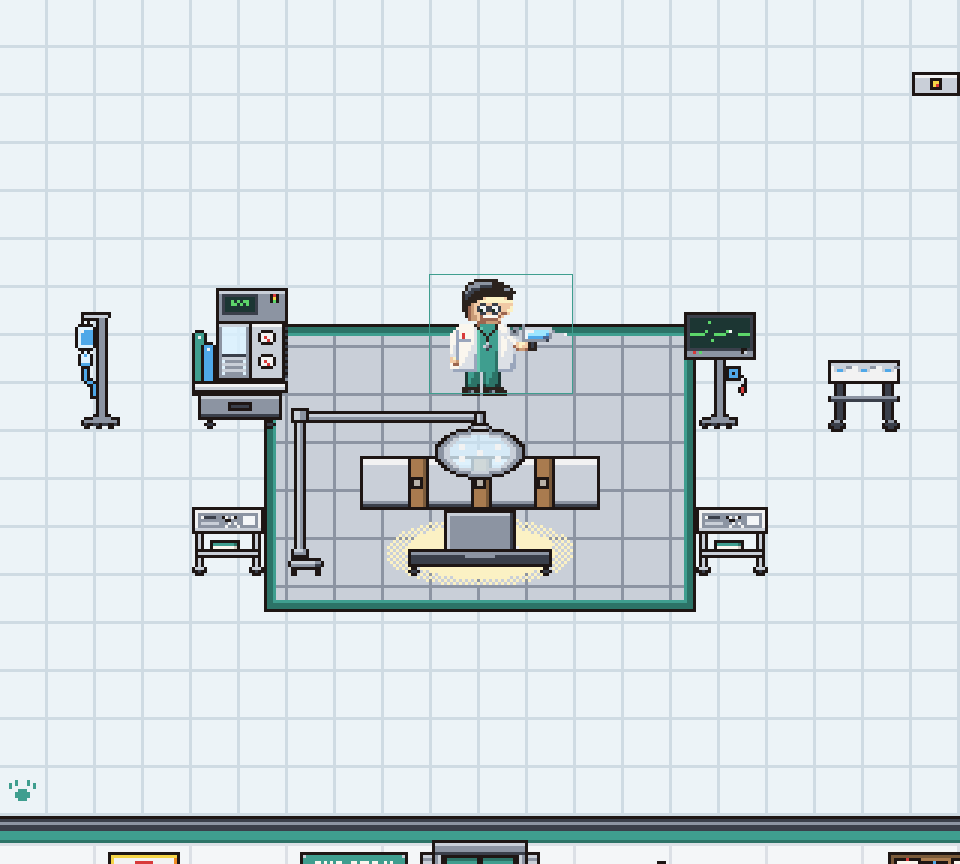
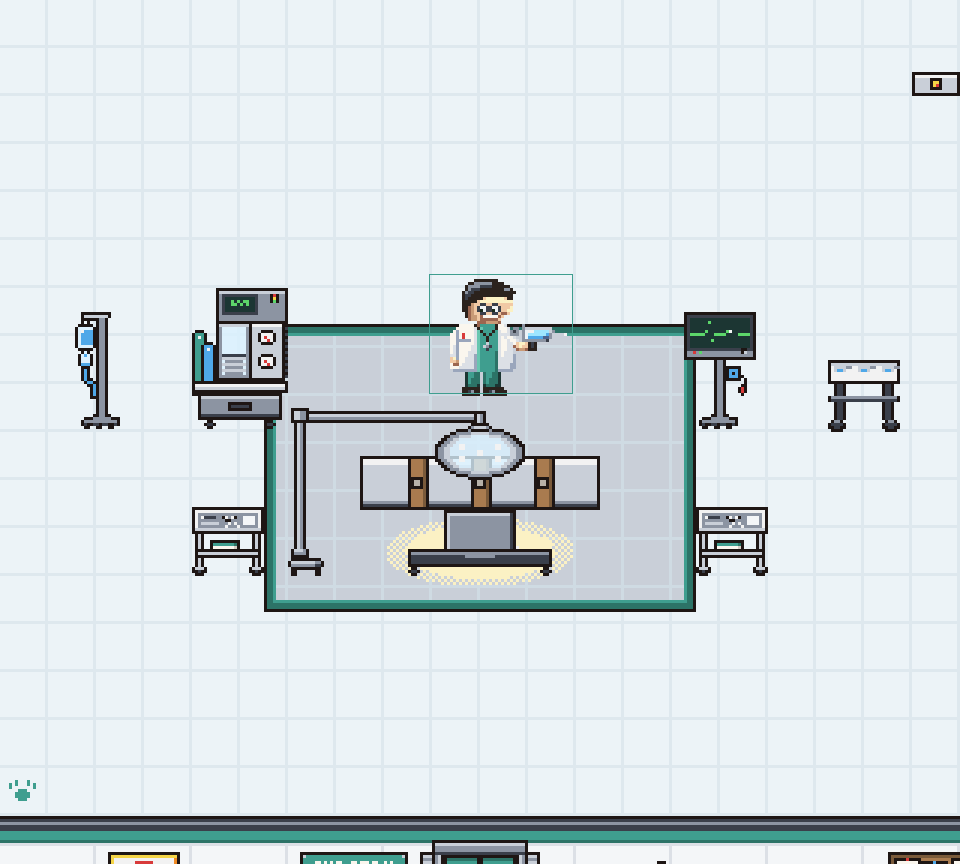
room: quieter tile grid under the ward and theatre fights
The repeated 1 px tile lines of the two combat floors take a third tone halfway between tile
and grout (new palette keys '1' ward, '3' theatre); the shadow band under the north wall,
drains and cracks keep the full grout, and the waiting room is unchanged. The theatre table
mat's steel-mid '%' rules (the loudest grid under the Vet) become light 'n' seams inside the
unchanged teal border. No props or characters redrawn. Test pins the lower line contrast.

diff --git a/tools/clinic_objects.py b/tools/clinic_objects.py
@@ -1068,7 +1068,8 @@ WALL_SHELF = R(_ws)
 # ------------------------------------------------------------------ zone floors (v0.10.1): plain 16x16 white tiles with a pale
 # '0' grout line right and bottom; a few variant tiles per zone at fixed tiles chosen away from the props: small round drain
 # grates, teal paw prints (the concept's paw) and single '0' hairline cracks. The top two rows are a '0' shadow band under the
-# wall to the north.
+# wall to the north. Combat polish (2026-09-15): the repeated tile lines under the fights (ward, theatre) take a softer third tone;
+# the shadow band, drains and cracks keep the full grout so the detail stays at the perimeter and in the few variant tiles.
 _TILE = ['_' * 15 + '0'] * 15 + ['0' * 16]
 _TILE_DRAIN = overlay(_TILE, [
     "...0000...",
@@ -1111,10 +1112,11 @@ FLOOR_ZONES = {
 }
 
 
-def floor(cells_wide, cells_high, variants, tone=('_', '0'), stripe_px=None):
-    """variants: {(cell_x, cell_y_from_the_floor's_bottom): kind}. tone: the zone's (tile, grout) keys swapped in for '_'/'0'
-    (v0.11: the waiting room warmer, the theatre cooler). stripe_px: x of a painted 8 px teal guide stripe ('~' edges, '$' fill)
-    running the floor's full height (v0.11: the ward, door to door)."""
+def floor(cells_wide, cells_high, variants, tone=('_', '0', '0'), stripe_px=None):
+    """variants: {(cell_x, cell_y_from_the_floor's_bottom): kind}. tone: the zone's (tile, grout, grid line) keys; tile and grout
+    are swapped in for '_'/'0' (v0.11: the waiting room warmer, the theatre cooler), the grid line replaces the grout on each tile's
+    right column and bottom row below the shadow band (no variant detail reaches them). stripe_px: x of a painted 8 px teal guide
+    stripe ('~' edges, '$' fill) running the floor's full height (v0.11: the ward, door to door)."""
     rows = ['.' * (cells_wide * 16)] * (cells_high * 16)
     for ty in range(cells_high):
         for tx in range(cells_wide):
@@ -1124,11 +1126,13 @@ def floor(cells_wide, cells_high, variants, tone=('_', '0'), stripe_px=None):
     rows[1] = '0' * (cells_wide * 16)
     if stripe_px is not None:
         rows = [r[:stripe_px - 4] + '~' + '$' * 6 + '~' + r[stripe_px + 4:] if y >= 2 else r for y, r in enumerate(rows)]
-    swap = str.maketrans({'_': tone[0], '0': tone[1]})
-    return R([r.translate(swap) for r in rows])
+    swap = {'_': tone[0], '0': tone[1]}
+    return R([''.join(tone[2] if ch == '0' and y >= 2 and (x % 16 == 15 or y % 16 == 15) else swap.get(ch, ch)
+                      for x, ch in enumerate(r)) for y, r in enumerate(rows)])
 
 
-FLOOR_TONES = {'pluto_floor_waiting': ('4', 'i'), 'pluto_floor_ward': ('_', '0'), 'pluto_floor_theatre': ('k', 'n')}
+# (tile, grout, grid line): the waiting room has no fight and keeps its full-contrast lines
+FLOOR_TONES = {'pluto_floor_waiting': ('4', 'i', 'i'), 'pluto_floor_ward': ('_', '0', '1'), 'pluto_floor_theatre': ('k', 'n', '3')}
 WARD_STRIPE_PX = (DOOR_GAP_X + 1) * 16   # the ward's guide stripe is centred on the door gaps' centre line (x 18 cells)
 
 
@@ -1440,7 +1444,8 @@ COUNTER_TOWELS = R(overlay(overlay(_side_counter(), TOWELS, 4, 3), CONE, 30, 3))
 COUNTER_PRINTER = R(overlay(overlay(_side_counter(), PRINTER, 4, 2), SANITIZER, 34, 3))
 
 # ------------------------------------------------------------------ theatre floor mat 144x96 (flat, under the operating table and its
-# kit): a '~' teal border with a '$' inner line around a pale steel '&' field ruled into tiles by '%' lines
+# kit): a '~' teal border with a '$' inner line around a pale steel '&' field ruled into tiles by 'n' lines (combat polish: the
+# '%' steel-mid rules were the loudest grid under the Vet's fight; the teal border keeps the mat's edge)
 def _table_mat(w, h):
     rows = []
     for y in range(h):
@@ -1454,7 +1459,7 @@ def _table_mat(w, h):
             elif e == 3:
                 ch = '$'
             elif x % 16 == 7 or y % 16 == 7:
-                ch = '%'
+                ch = 'n'
             else:
                 ch = '&'
             row.append(ch)

diff --git a/tools/tests/test_objects.py b/tools/tests/test_objects.py
@@ -213,12 +213,12 @@ class ObjectTests(unittest.TestCase):
                 for x0, y0_, x1, y1 in rects:
                     self.assertFalse(cx < x1 and x0 < cx + 1 and cy < y1 and y0_ < cy + 1, (name, kind, tx, ty))
             rows = spec(name).rows
-            tile, grout = O.FLOOR_TONES[name]
+            tile, grout, line = O.FLOOR_TONES[name]
             if name == 'pluto_floor_ward':                                  # the guide stripe is not a variant
                 rows = [r[:O.WARD_STRIPE_PX - 4] + r[O.WARD_STRIPE_PX + 4:] for r in rows]
             text = ''.join(rows)
             self.assertNotIn('B', text)
-            self.assertTrue(set(text) <= {tile, grout, '$', '%', '#'}, (name, set(text)))
+            self.assertTrue(set(text) <= {tile, grout, line, '$', '%', '#'}, (name, set(text)))
             self.assertLessEqual(text.count('$'), 2 * ''.join(O._TILE_PAW).count('$'), name)   # two paws at most
             tile_cells = (len(rows) // 16) * (len(rows[0]) // 16)
             self.assertLess(len(variants) / float(tile_cells), 0.03, name)
@@ -394,7 +394,7 @@ class ObjectTests(unittest.TestCase):
     def test_zone_floor_tones_and_the_ward_stripe(self):
         self.assertEqual(set(''.join(O.FLOOR_WAITING)) & {'_', '0'}, set())
         self.assertEqual(set(''.join(O.FLOOR_THEATRE)) & {'_', '0'}, set())
-        self.assertEqual(O.FLOOR_TONES['pluto_floor_ward'], ('_', '0'))
+        self.assertEqual(O.FLOOR_TONES['pluto_floor_ward'], ('_', '0', '1'))
         px = O.WARD_STRIPE_PX
         self.assertEqual(px, 18 * 16)                                           # the door centre line
         for y, row in enumerate(O.FLOOR_WARD[2:], start=2):
@@ -402,6 +402,22 @@ class ObjectTests(unittest.TestCase):
         for name, variants in O.FLOOR_VARIANTS.items():
             if name == 'pluto_floor_ward':
                 self.assertFalse({tx for tx, _ in variants} & {17, 18})
+
+    def test_combat_floor_lines_are_quieter_than_the_grout(self):
+        """Combat polish: under the fights (ward, theatre) the repeated tile lines sit between tile and grout in luminance, the shadow
+        band under the north wall keeps the full grout, and the table mat's rules are no darker than its steel field."""
+        def lum(key):
+            r, g, b, _ = V.PALETTE[key]
+            return 0.299 * r + 0.587 * g + 0.114 * b
+        for name, rows in (('pluto_floor_ward', O.FLOOR_WARD), ('pluto_floor_theatre', O.FLOOR_THEATRE)):
+            tile, grout, line = O.FLOOR_TONES[name]
+            self.assertLess(lum(tile) - lum(line), 0.6 * (lum(tile) - lum(grout)), name)
+            self.assertGreater(lum(tile) - lum(line), 6, name)                  # still a visible tile grid
+            self.assertEqual(set(rows[0] + rows[1]), {grout}, name)
+            self.assertEqual(rows[2 + 13][40], line, name)                      # a plain tile's bottom row (y 15) away from variants
+        field = set(''.join(r[4:-4] for r in O.TABLE_MAT[4:-4]))
+        self.assertEqual(field, {'&', 'n'})
+        self.assertGreaterEqual(lum('n'), lum('&'))
 
     def high_boxes(self):
         for name, (x, y) in O.PROPS:

diff --git a/tools/vetpixel.py b/tools/vetpixel.py
@@ -64,6 +64,10 @@ PALETTE.update({
     'i': (0xE6, 0xDC, 0xCE, 255),  # warm grout: the waiting-room floor's grout and shadow band
     'k': (0xEC, 0xF3, 0xF7, 255),  # cool tile: the operating-theatre floor
     'n': (0xCF, 0xDB, 0xE3, 255),  # cool grout: the operating-theatre floor's grout and shadow band
+    # combat-polish floor grid (digits the main mod uses for unrelated colours; not in test_palette.COPIED_FROM_MAIN, so no drift):
+    # the 1 px tile lines of the two combat floors sit halfway between tile and grout, so bullets, not the grid, read on the floor
+    '1': (0xE8, 0xEB, 0xEF, 255),  # ward tile line: between '_' and '0'
+    '3': (0xDE, 0xE8, 0xEE, 255),  # theatre tile line: between 'k' and 'n'
     '5': (0x5C, 0xD6, 0x6A, 255),  # LED green: ECG trace, machine lights
     't': (0x1C, 0x36, 0x33, 255),  # screen dark green-black: monitor and anaesthesia screens
     # v0.11 boss card ramps (symbols the main mod's pixel.PALETTE does not use)
